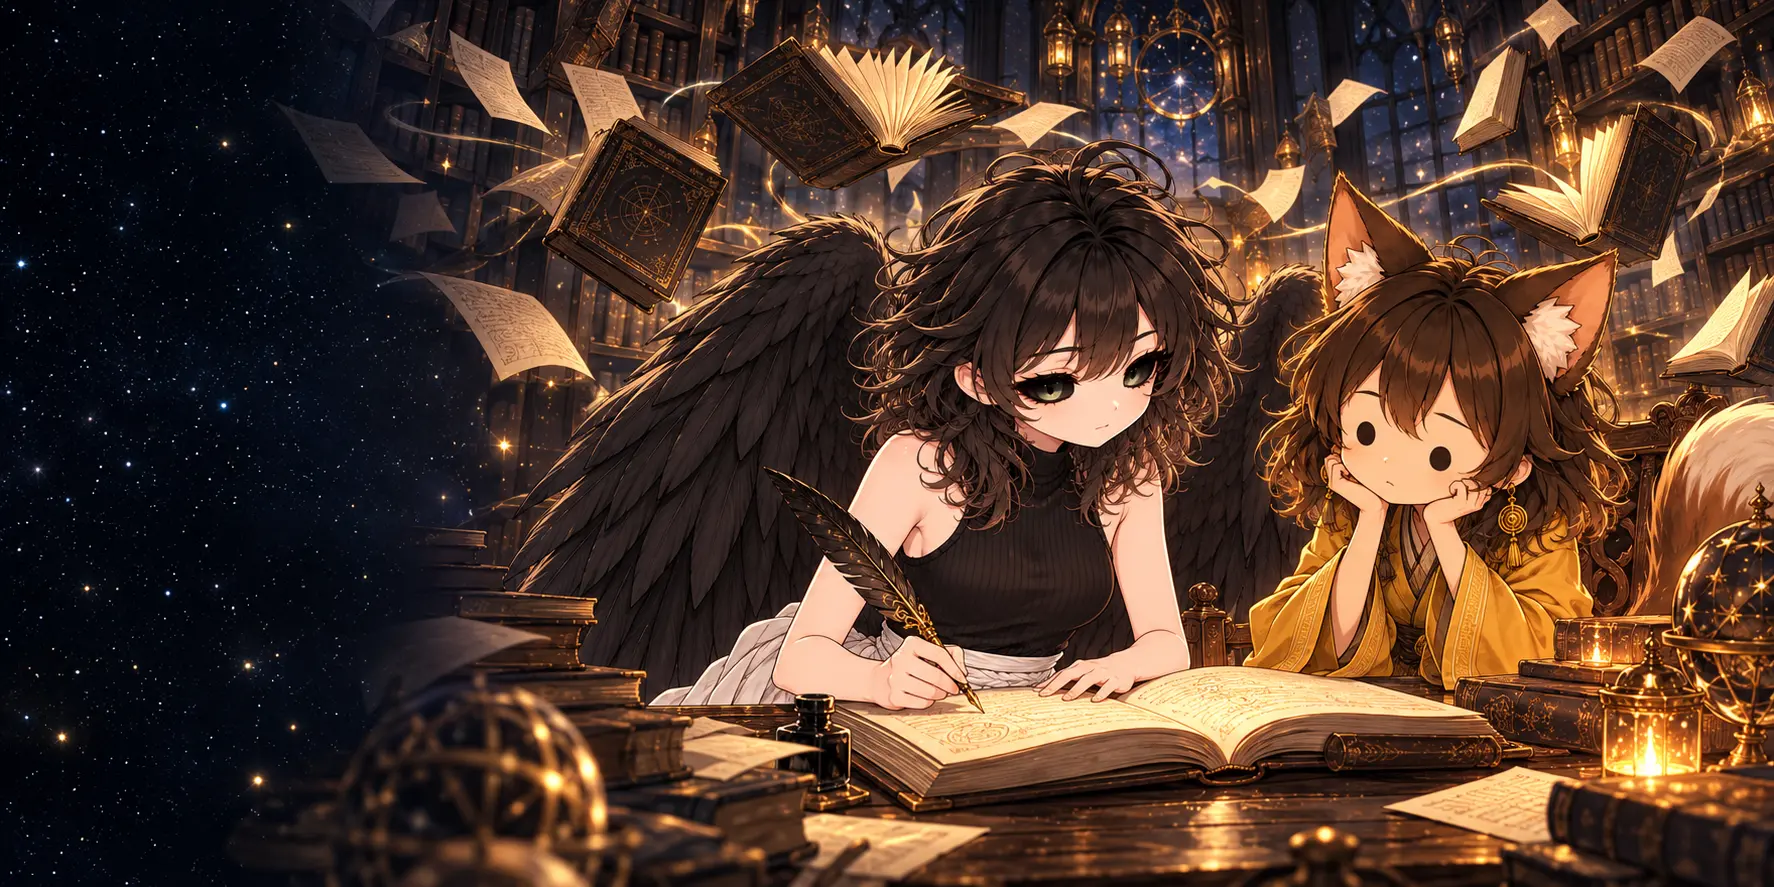
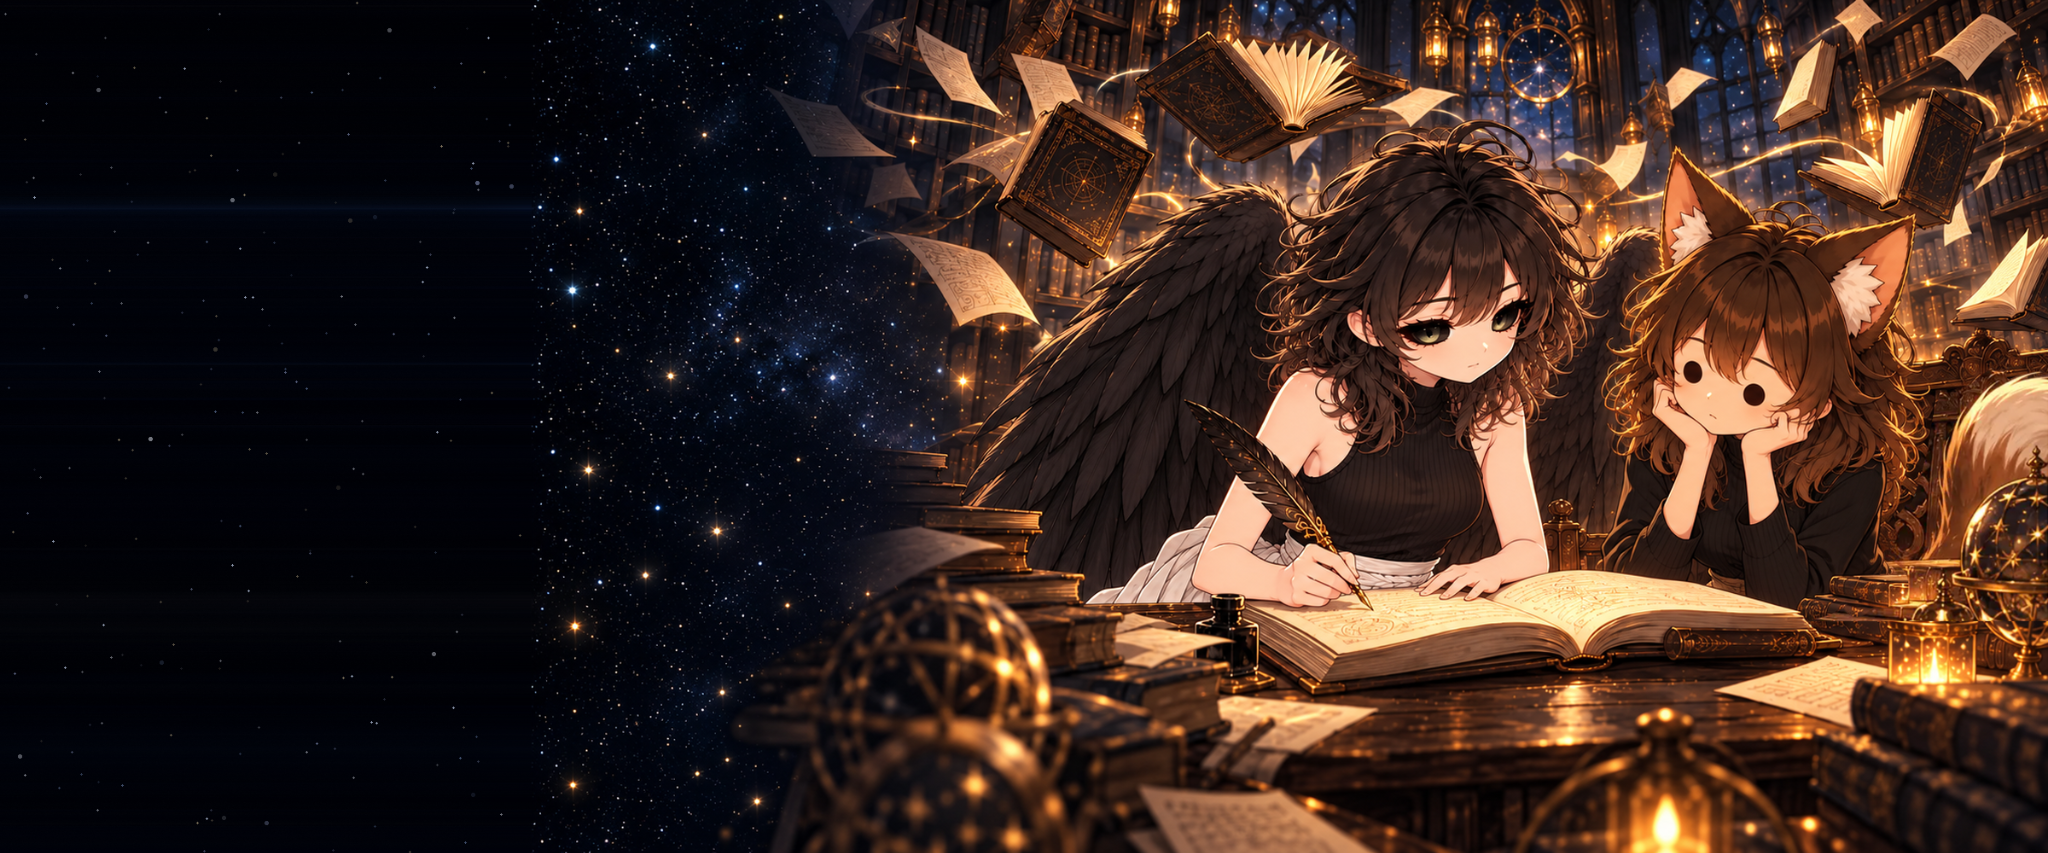
fix: atualizar headers de Sanakaverse e Entregas de Ākāśa

diff --git a/docs/matrix/manifesto-de-artes.md b/docs/matrix/manifesto-de-artes.md
@@ -4,11 +4,11 @@ Em 15/10/2026 foram aplicadas as três artes enviadas pela autora. Cada imagem m
 o enquadramento e as dimensões de origem (1942 × 809 px), convertidos para WebP com
 qualidade 92. Não houve redesenho, alteração de iluminação ou ampliação artificial.
 
-| Estudo   | Arte aprovada                                      | Arquivo publicado                                                | Tamanho       |
-| -------- | -------------------------------------------------- | ---------------------------------------------------------------- | ------------- |
-| Óbolos   | Mors e Busca no Sótão das Relíquias.png            | `public/images/matrix/obolos/obolos-atmosphere-desktop.webp`     | 426.504 bytes |
-| Entregas | As Entregas de Akasha v2.png                       | `public/images/matrix/entregas/entregas-atmosphere-desktop.webp` | 625.834 bytes |
-| Jogo     | Kalika na Taverna Oculta de Cartas e Espíritos.png | `public/images/matrix/jogo/jogo-atmosphere-desktop.webp`         | 461.300 bytes |
+| Estudo   | Arte aprovada                                      | Arquivo publicado                                                | Tamanho         |
+| -------- | -------------------------------------------------- | ---------------------------------------------------------------- | --------------- |
+| Óbolos   | Mors e Busca no Sótão das Relíquias.png            | `public/images/matrix/obolos/obolos-atmosphere-desktop.webp`     | 426.504 bytes   |
+| Entregas | As Entregas de Akasha v3.png                       | `public/images/matrix/entregas/entregas-atmosphere-desktop.webp` | 2.412.664 bytes |
+| Jogo     | Kalika na Taverna Oculta de Cartas e Espíritos.png | `public/images/matrix/jogo/jogo-atmosphere-desktop.webp`         | 461.300 bytes   |
 
 Os três usam o mesmo Header, degradês, sombra de texto e comportamento responsivo.
 O mobile usa o recorte compartilhado da imagem horizontal; não há arte vertical
@@ -56,6 +56,11 @@ Não inventar moedas canônicas ou reversos. Se houver moedas reconhecíveis na 
 usar referências aprovadas. Saṃvit, Mors e Ākāśa compartilham o reverso canônico.
 
 ## Entregas de Ākāśa
+
+Em 25/10/2026, a arte foi substituída por **As Entregas de Akasha v3.png**, enviada
+pela autora após corrigir erros da versão anterior. A conversão atual é WebP sem perda,
+sem redimensionamento (1942 × 809 px), com igualdade de todos os pixels RGBA verificada
+após a decodificação. Essa versão substitui a conversão de qualidade 92 registrada em 15/10.
 
 A arte aprovada mostra Ākāśa diante de painéis estelares com alertas, personagens nas
 telas e fios de energia. Mantém sua forma quadrúpede, chifres, peito claro e escamas
